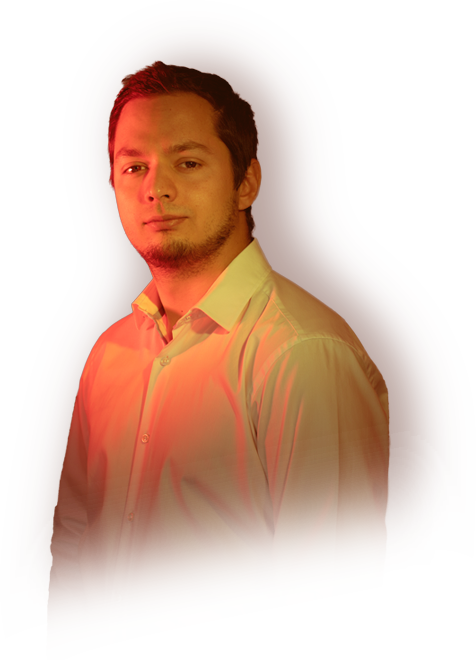
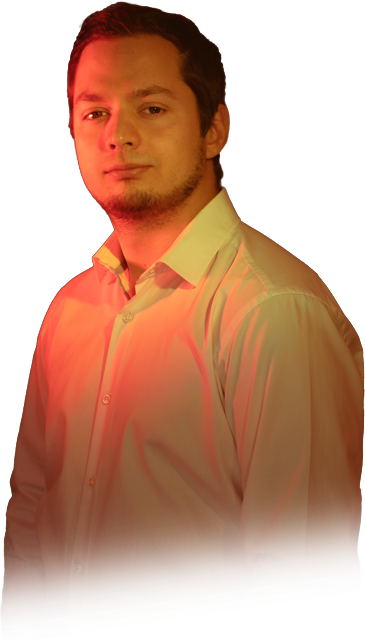
✨ optimise picture

diff --git a/src/components/sections/About.vue b/src/components/sections/About.vue
@@ -126,7 +126,8 @@ p {
 }
 
 img {
-  margin-left: 20px;
+  margin-left: 40px;
+  filter: drop-shadow(30px -10px 20px rgb(0 0 0 / 30%));
   @media screen and (min-width: $tablet) {
     animation: enterRight 0.8s;
   }
